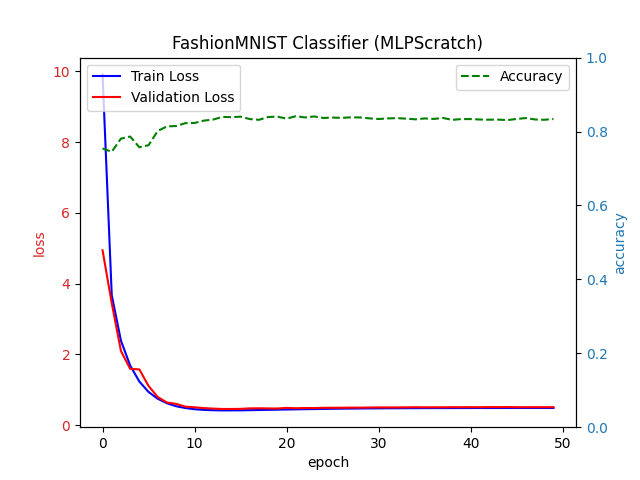
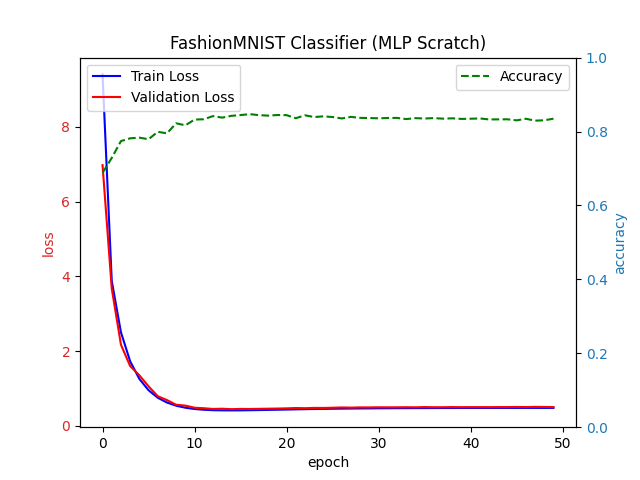
[refactor - ch5] Minor improvements for scratch implementation

diff --git a/chapter-5_multilayer-perceptrons/mlp_scratch/mlp_scratch.py b/chapter-5_multilayer-perceptrons/mlp_scratch/mlp_scratch.py
@@ -281,27 +281,28 @@ class PredStdev:
         return (sd.mean().item(), sd.median().item())
 
 
-class Evaluator(TransformMixin):
+class Validator(TransformMixin):
     def __init__(
         self,
         model: MLPScratch,
         dataset: FashionMNISTDataset,
         loss_measurer: nn.CrossEntropyLoss,
-        num_samples: int = 8,
     ) -> None:
         self._model = model
         self._dataset = dataset
         self._loss_measurer = loss_measurer
-        self._loss = 0.0
-        self._accuracy = 0.0
-        self._corrects = Samples(num_samples)
-        self._wrongs = Samples(num_samples)
 
-    def evaluate(self) -> None:
+    def __call__(
+        self,
+        max_samples: int = 0,
+    ) -> tuple[float, float, list[torch.Tensor]]:
+        """Validates the model and returns loss, accuracy, and samples."""
         num_batches = 0
-        loss = 0.0
-        correct = 0
-        total = 0
+        total_loss = 0.0
+        num_correct = 0
+        num_total = 0
+        corrects = Samples(int(max_samples/2))
+        wrongs = Samples(int(max_samples/2))
 
         self._model.eval()
         with torch.inference_mode():
@@ -312,37 +313,29 @@ class Evaluator(TransformMixin):
 
                 y_logits_pred = self._model(X_flatten)
 
-                loss += self._loss_measurer(y_logits_pred, y_one_hot)
+                total_loss += self._loss_measurer(y_logits_pred, y_one_hot)
                 num_batches += 1
 
                 psd.collect(y_logits_pred)
 
                 y_pred_indices = self.index(y_logits_pred)
-                correct += (y_pred_indices == y_indices).sum().item()
-                total += len(y_indices)
+                num_correct += (y_pred_indices == y_indices).sum().item()
+                num_total += len(y_indices)
 
-                self._collect_samples(X, y_indices, y_pred_indices)
-
-            self._loss = loss / num_batches
-            self._accuracy = correct / total
+                self._collect_samples(corrects, wrongs, X, y_indices, y_pred_indices)
 
             mean, median = psd.get()
             logger.debug("Prediction stdev: mean = {}, median = {}", mean, median)
 
-    @property
-    def samples(self) -> list[torch.Tensor]:
-        return (self._corrects | self._wrongs).tensors()
-
-    @property
-    def loss(self) -> float:
-        return self._loss
-
-    @property
-    def accuracy(self) -> float:
-        return self._accuracy
+        mean_loss = total_loss / num_batches
+        accuracy = num_correct / num_total
+        samples = (corrects | wrongs).tensors()
+        return (mean_loss, accuracy, samples)
 
     def _collect_samples(
         self,
+        corrects: Samples,
+        wrongs: Samples,
         X: torch.Tensor,
         y: torch.Tensor,
         y_pred: torch.Tensor,
@@ -353,7 +346,7 @@ class Evaluator(TransformMixin):
             f"Length mismatch, len(X) = {len(X)}, len(y_pred) = {len(y_pred)}"
 
         for x, y_, y_p_ in zip(X, y, y_pred):
-            samples = self._corrects if torch.equal(y_, y_p_) else self._wrongs
+            samples = corrects if torch.equal(y_, y_p_) else wrongs
             samples.add(x, y_, y_p_)
 
 
@@ -415,10 +408,10 @@ def main(
     num_channels = 1
     width = 24
     height = 24
-    num_samples = 8
+    num_samples = 16
     max_epochs = 50
     learning_rate = 0.01
-    weight_decay = 0.1
+    weight_decay = 0.01
 
     dataset = FashionMNISTDataset(resize=(width, height))
     if preview_dataset:
@@ -433,23 +426,25 @@ def main(
                           lr=learning_rate,
                           weight_decay=weight_decay)
     trainer = Trainer(model, dataset, loss_measurer, optimizer)
-    evaluator = Evaluator(model, dataset, loss_measurer, num_samples)
+    validator = Validator(model, dataset, loss_measurer)
     plotter = MetricsPlotter(
         title="FashionMNIST Classifier (MLP Scratch)", filename="metrics.png")
 
+    samples: list[torch.Tensor] = []
     for epoch in range(max_epochs):
         train_loss = trainer.fit()
-        evaluator.evaluate()
-        logger.info("epoch #{}, train_loss = {}, evaluate_loss = {}, accuracy = {}",
-                    epoch, train_loss, evaluator.loss, evaluator.accuracy)
-        plotter.add(epoch, train_loss, evaluator.loss, evaluator.accuracy)
+        validate_loss, accuracy, samples = validator(
+            num_samples if epoch == max_epochs - 1 else 0)
+        logger.info("epoch #{}, train_loss = {}, validate_loss = {}, accuracy = {}",
+                    epoch, train_loss, validate_loss, accuracy)
+        plotter.add(epoch, train_loss, validate_loss, accuracy)
 
-    dataset.visualize(evaluator.samples, filename="pred_samples.png")
+    dataset.visualize(samples, filename="pred_samples.png")
     plotter.plot()
 
     logger.info("Done!")
     # Final output:
-    # epoch #49, train_loss = 0.4849, evaluate_loss = 0.5070, accuracy = 0.8339
+    # epoch #49, train_loss = 0.4836, validate_loss = 0.5054, accuracy = 0.8347
 
 
 if __name__ == "__main__":
